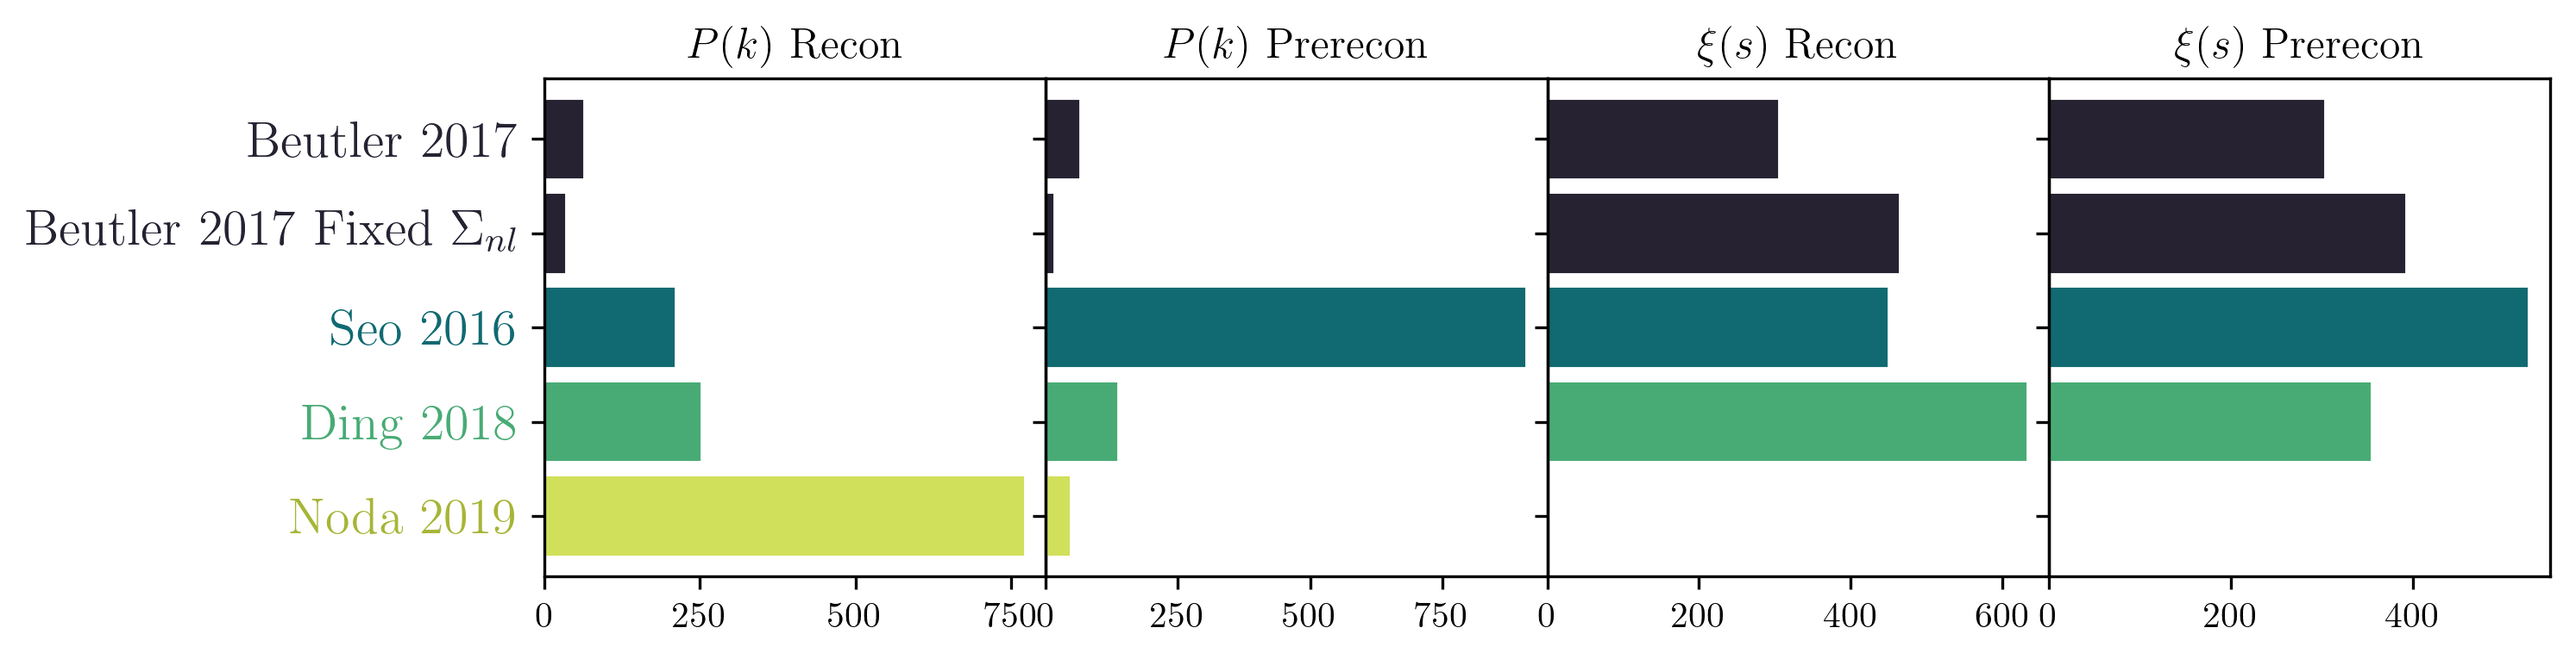
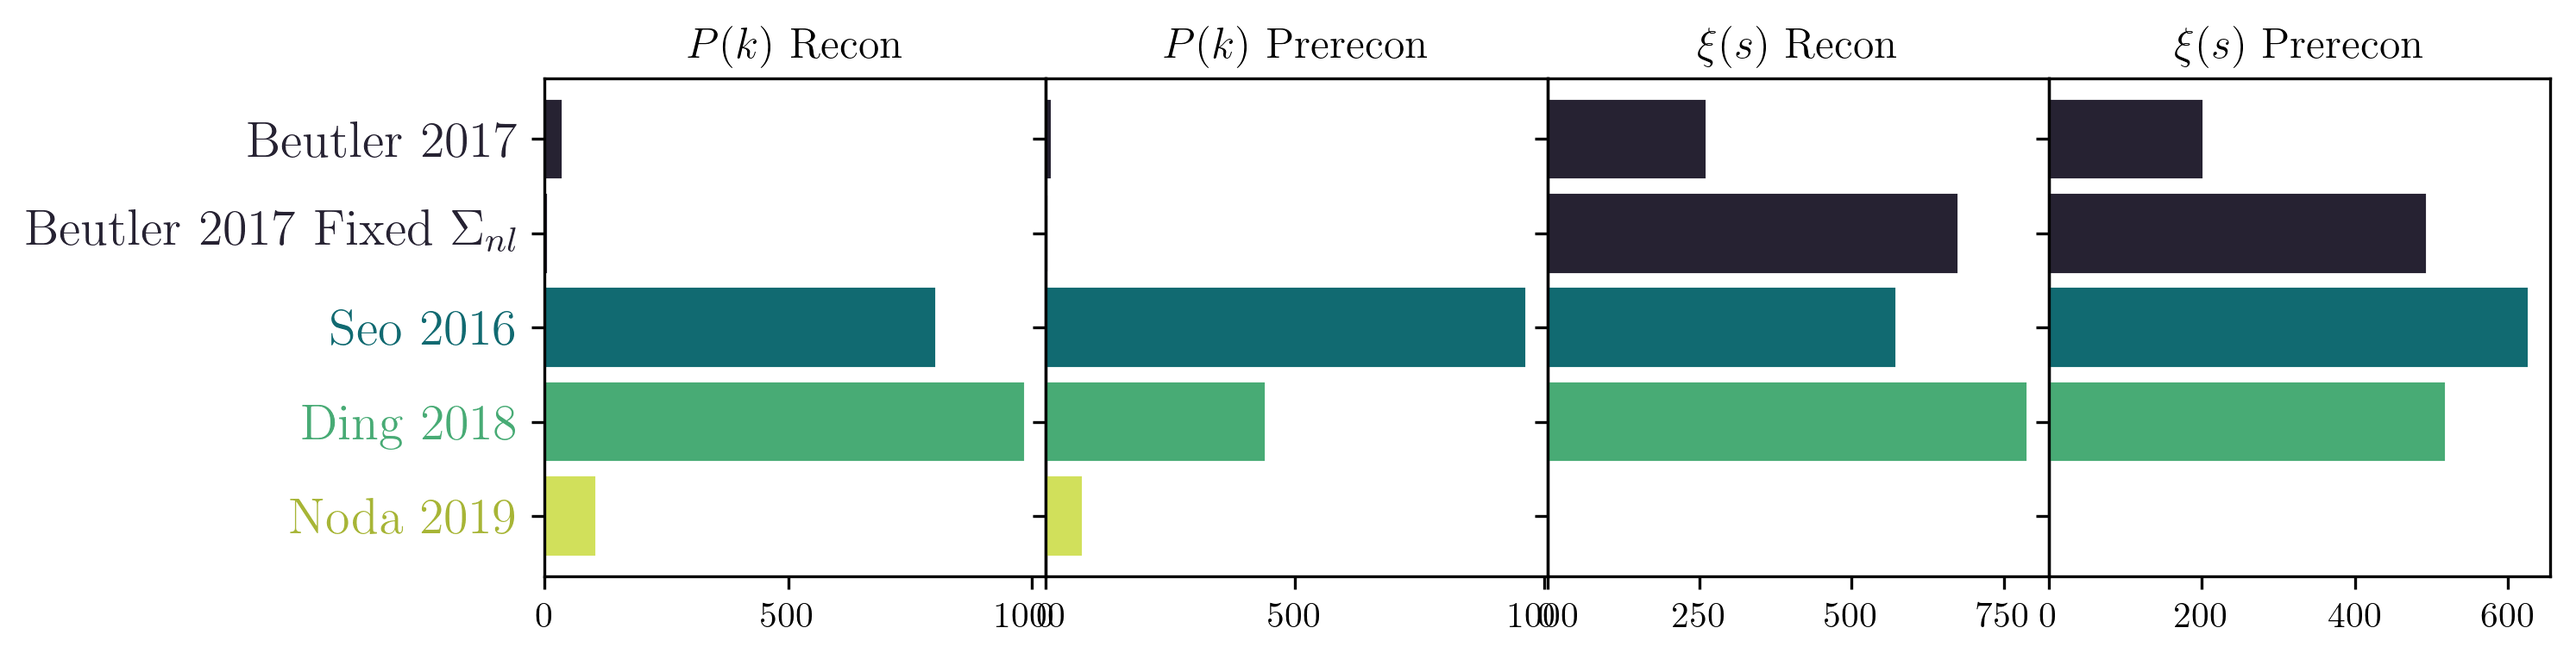
Fixing plot

diff --git a/investigations/get_best_fit_barplot.py b/investigations/get_best_fit_barplot.py
@@ -18,8 +18,10 @@ cs2 = ["#262232", "#262232", "#116A71", "#48AB75", "#a7b536"]
 for f, x in zip([filename_pk, filename_xi], ["$P(k)$", "$\\xi(s)$"]):
     for r in ("Recon", "Prerecon"):
         df = pd.read_csv(f)
-        df = df[[c for c in df.columns if "_mean" in c and r in c]]
+        df = df[[c for c in df.columns if "_std" in c and r in c]]
+
         df = df.rename(columns={c: c.split(r)[0].strip() for c in df.columns})
+        print(df.head())
         mins = df.min(axis=1)
 
         counts = [(np.isclose(df[c], mins, atol=0.0005)).sum() for c in df.columns]
